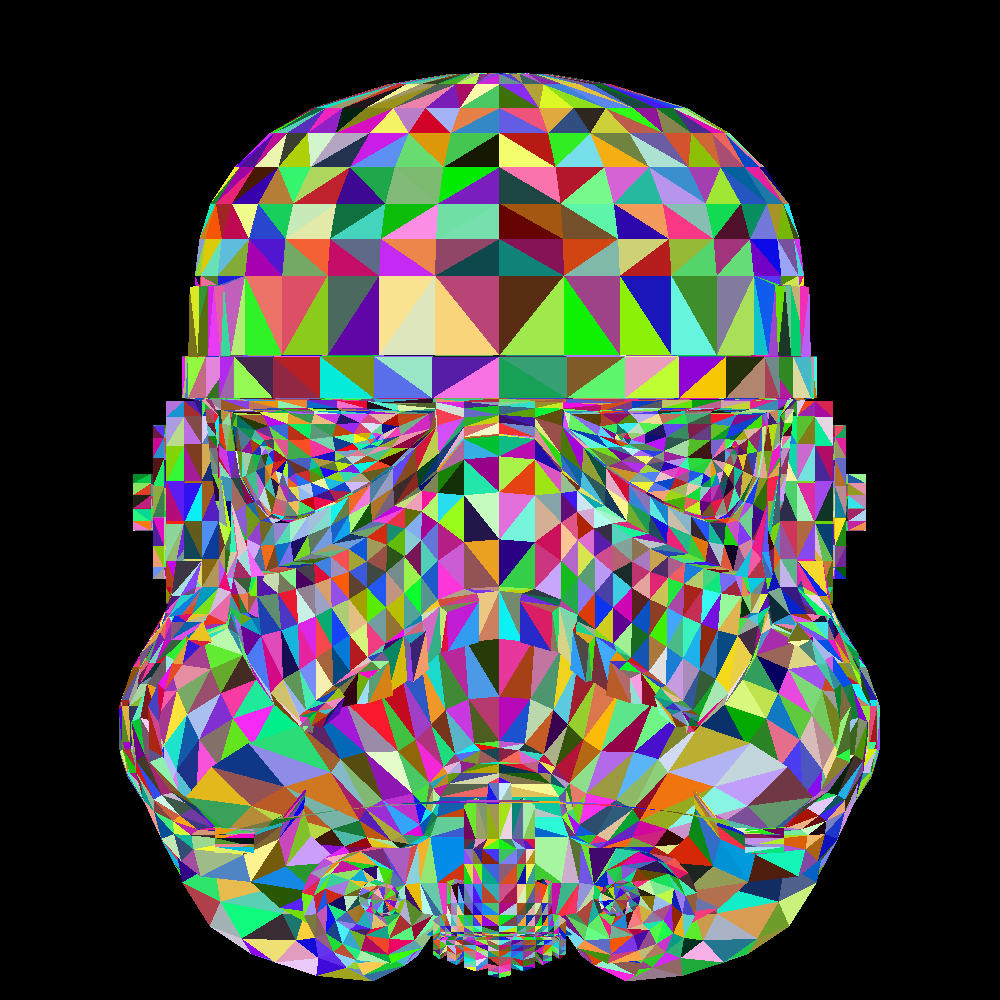
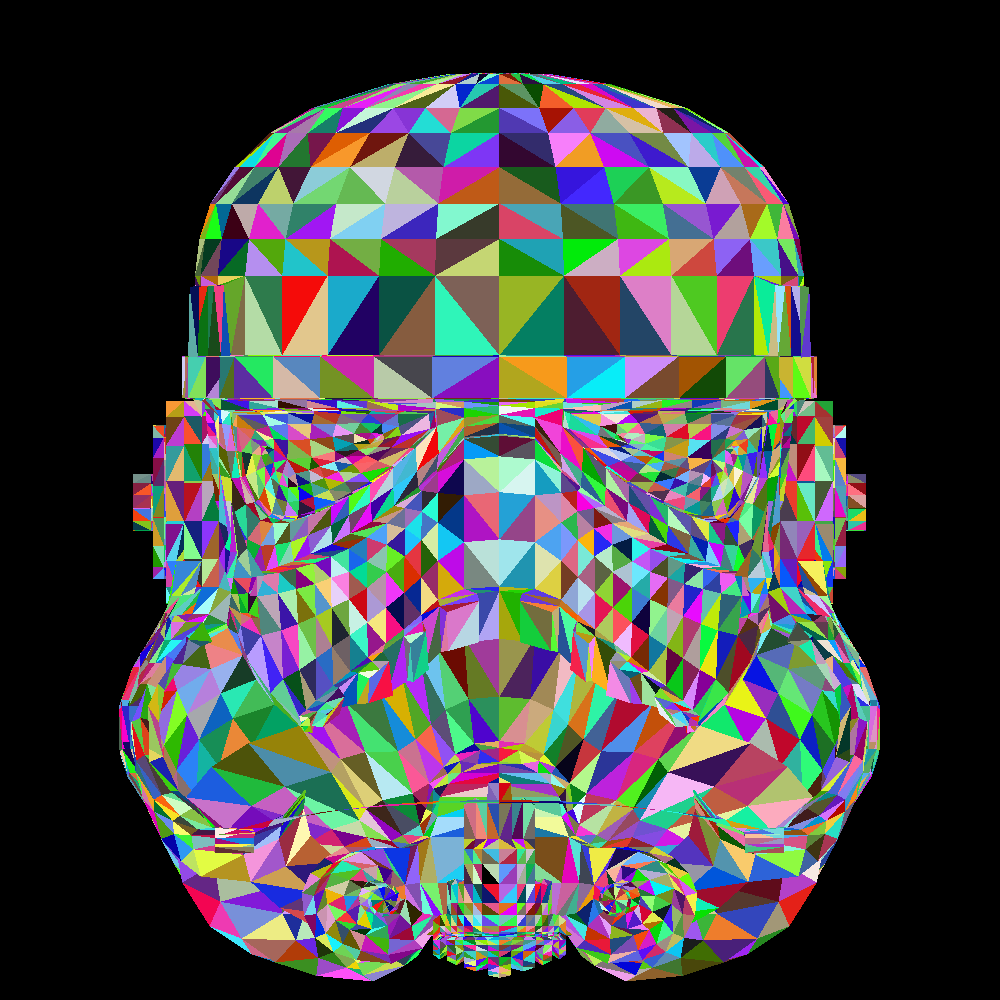
исправил кое-что

diff --git a/src/com/company/Main.java b/src/com/company/Main.java
@@ -59,7 +59,7 @@ public class Main {
             */
 
 
-            /*
+            ///*
             // проверка суммы барицентрических координат
             Coord barycentricCoord = MathTools.barycentric(
                     10,10, new Coord(0.5, 5, 5.5), new Coord(-0.5, 500, -9.9));
@@ -90,11 +90,11 @@ public class Main {
             Picture picture3 = SimpleObjUtils.SimpleObjToPicture5(stormTrooper,1000,1000,250,500,500);
             PictureUtils.savePicture(PictureUtils.rotatePicture(picture3), "pictures/lab2/picture3.png");
 
-            */
-
             // z-буффер
             Picture picture4 = SimpleObjUtils.SimpleObjToPicture6(stormTrooper,1000,1000,250,500,500);
             PictureUtils.savePicture(PictureUtils.rotatePicture(picture4), "pictures/lab2/picture4.png");
+
+            //*/
 
         } catch (Exception e){
             e.printStackTrace();
